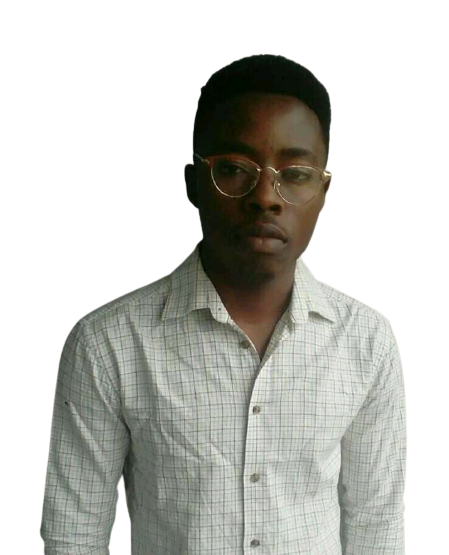
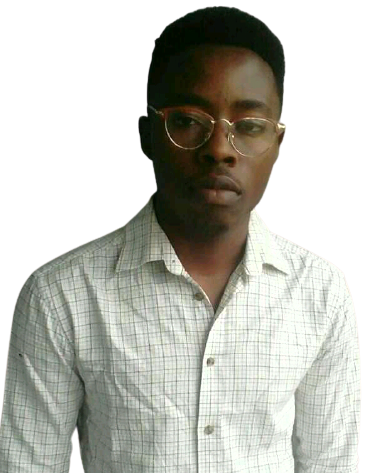
fixed landing page portfilio image width

diff --git a/src/components/Landingpage.vue b/src/components/Landingpage.vue
@@ -46,8 +46,8 @@ export default {
   data(){
     return{
         firstname:'Miracool',
-        stalk:'Front-end Developer',
-        homeText:'Can we talk about your project ?',
+        stalk:'Full-stalk Developer',
+        homeText:"let's about your project ?",
         info:'I design and code beautifully simple things , and i love what i do...'
     }
   }
@@ -184,6 +184,10 @@ export default {
                overflow: hidden;
                display: flex;
                justify-content: center;
+               padding: 10px 10px 0 0;
+               width: object-fit;
+               height: 300px;
+
 
                @media (max-width:450px) {
                     max-width: 300px;
